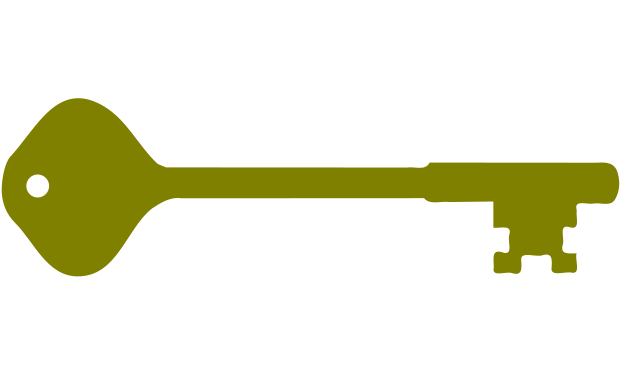
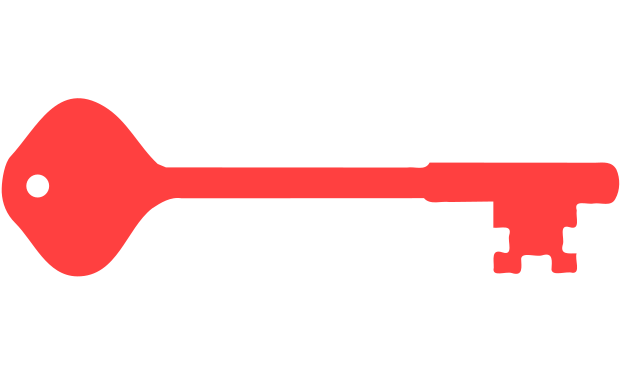
Changed unused key color; Make RPM pkg; Revised README.md

Changed region(s): [[0.0, 0.2468, 1.0, 0.7095]]

diff --git a/README.md b/README.md
@@ -1,28 +1,27 @@
-QMaze
-=====
-
+# QMaze #
 QMaze is a simple maze game. It creates mazes the player has to pass.
 In order to complete a level the player needs to find a key first.
 
 
-Build
------
-
+## Build ##
 To build QMaze you need the following prerequisites (Ubuntu):
 cmake, build-essential qt5-default, qttools5-dev-tools
 
 Then you can run:
-  $ cd /path/to/QMaze
-  $ mkdir build && cd build
-  $ cmake ..
-  $ make package
-
+`cd /path/to/QMaze`
+`mkdir build && cd build`
+If you want to create a package of *QMaze* you can type:
+`cmake -DDEB_PKG ..`
+for a **deb** package, or:
+`cmake -DRPM_PKG ..`
+for a (OpenSUSE) **rpm** package. If you don't need a package, just type:
+`cmake ..`
+And finally:
+`make package`
 You will find a deb package in your build folder then. Just install it.
 
 
-License
--------
-
+## License ##
 Copyright 2016 Daniel Steinhauer
 
 QMaze is free software: you can redistribute it and/or modify
